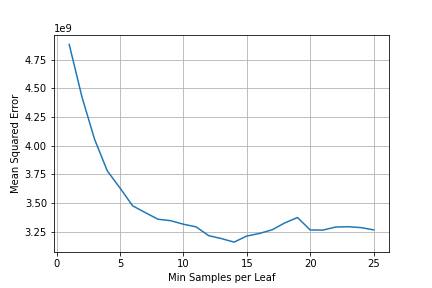
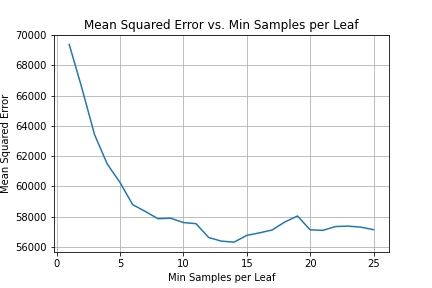
Answer Questions/Minor Fixes

Changed region(s): [[0.0, 0.1562, 0.9028, 0.875], [0.0301, 0.0625, 0.8426, 0.1562]]

diff --git a/p1.py b/p1.py
@@ -25,12 +25,16 @@ X_val, X_test, y_val, y_test = train_test_split(
 # (ii)
 min_samples = list(range(1, 26))
 mse_array = []
+mse_test_array = []
 for i in min_samples:
     reg = tree.DecisionTreeRegressor(min_samples_leaf=i)
     reg = reg.fit(X_train, y_train)
     y_val_pred = reg.predict(X_val)
-
-    mse_array.append(mean_squared_error(y_val, y_val_pred))
+    y_test_pred = reg.predict(X_test)
+    # squared -> False means RMSE
+    mse_array.append(mean_squared_error(y_val, y_val_pred, squared=False))
+    mse_test_array.append(mean_squared_error(
+        y_test, y_test_pred, squared=False))
 
 fig, ax = plt.subplots()
 ax.plot(min_samples, mse_array)
@@ -44,6 +48,8 @@ plt.savefig('./images/P1_ii_RMSEvsSamples')
 # %%
 # (iii)
 print(min_samples[mse_array.index(min(mse_array))])
+print(mse_test_array[mse_array.index(min(mse_array))])
+
 # ~ 14 is the best miniumum number of leaf node observations
 
 # %%
@@ -59,8 +65,9 @@ reg_to_cmp.append(svm.SVR().fit(X_train, y_train))
 # for i in reg_to_cmp
 
 indices = np.arange(len(reg_to_cmp))
-mse_val = [mean_squared_error(y_val, reg.predict(X_val)) for reg in reg_to_cmp]
-mse_test = [mean_squared_error(y_test, reg.predict(X_test))
+mse_val = [mean_squared_error(y_val, reg.predict(
+    X_val), squared=False) for reg in reg_to_cmp]
+mse_test = [mean_squared_error(y_test, reg.predict(X_test), squared=False)
             for reg in reg_to_cmp]
 # %%
 barWidth = 0.35
@@ -72,12 +79,13 @@ testRects = plt.bar(indices+barWidth/2, mse_test,
                     barWidth, color='g', label='Test')
 
 ax.set_xlabel('Regressor')
-ax.set_ylabel('Mean Squared Error')
-ax.set_title("Mean Squared Error by Regressor")
+ax.set_ylabel('Root Mean Squared Error')
+ax.set_title("Root Mean Squared Error by Regressor")
 ax.set_xticks(indices)
 ax.set_xticklabels(
     ['Decision Tree', 'Ridge', 'ElasticNet', 'Passive\nAggressive', 'SVM']
 )
 ax.legend()
+plt.savefig('./images/P1_iv_Comparison.png')
 # fig.tight_layout()
 # %%

diff --git a/p2.py b/p2.py
@@ -54,7 +54,7 @@ def p_i():
     # ~ 9 is the best miniumum number of leaf node observations
 
     clf = tree.DecisionTreeClassifier(
-        min_samples_leaf=bestMinNumberSamples).fit(X_test, y_test)
+        min_samples_leaf=bestMinNumberSamples).fit(X_train, y_train)
     y_test_pred = clf.predict(X_test)
     test_accuracy = jaccard_score(y_test, y_test_pred)
     print(test_accuracy)
@@ -65,8 +65,10 @@ def p_i():
     disp = ConfusionMatrixDisplay(
         confusion_matrix=test_confusion_matrix, display_labels=clf.classes_)
     disp.plot()
+    plt.savefig('./images/P2_HeartDisease_ConfusionMatrix')
 
-# p_i()
+
+p_i()
 
 
 def p_iv():
@@ -106,7 +108,7 @@ def p_iv():
     print(bestMinNumberSamples)
 
     clf = tree.DecisionTreeClassifier(
-        min_samples_leaf=bestMinNumberSamples).fit(X_test, y_test)
+        min_samples_leaf=bestMinNumberSamples).fit(X_train, y_train)
     y_test_pred = clf.predict(X_test)
     test_accuracy = accuracy_score(y_test, y_test_pred)
     print(test_accuracy)
@@ -116,6 +118,9 @@ def p_iv():
     disp = ConfusionMatrixDisplay(
         confusion_matrix=test_confusion_matrix, display_labels=clf.classes_)
     disp.plot()
+    plt.savefig('./images/P2_iv_RestingECG_Confusion')
 
 
 p_iv()
+
+# %%

diff --git a/p3.py b/p3.py
@@ -49,9 +49,23 @@ ax2.plot(history.history["val_root_mean_squared_error"])
 ax2.set_xlabel("Epoch")
 ax2.grid(True)
 
-plt.savefig('./images/P3_i_AccuracyvsEpoch.png')
+plt.savefig('./images/P3_i_RMSEvsEpoch.png')
 
 # %%
-print(history.history)
+# print(history.history)
+# fig, (ax1, ax2) = plt.subplots(2, sharex=True, constrained_layout=True)
+# # training accuracy
+# ax1.plot(history.history["sparse_categorical_accuracy"])
+# ax1.grid(True)
+# ax1.set_title("Training Accuracy")
 
-# %%
+
+# # testing accuracy
+# ax2.set_title("Testing Accuracy")
+# ax2.plot(history.history["val_sparse_categorical_accuracy"])
+# ax2.set_xlabel("Epoch")
+# ax2.grid(True)
+
+# plt.savefig('./plot.png')
+
+# # %%
